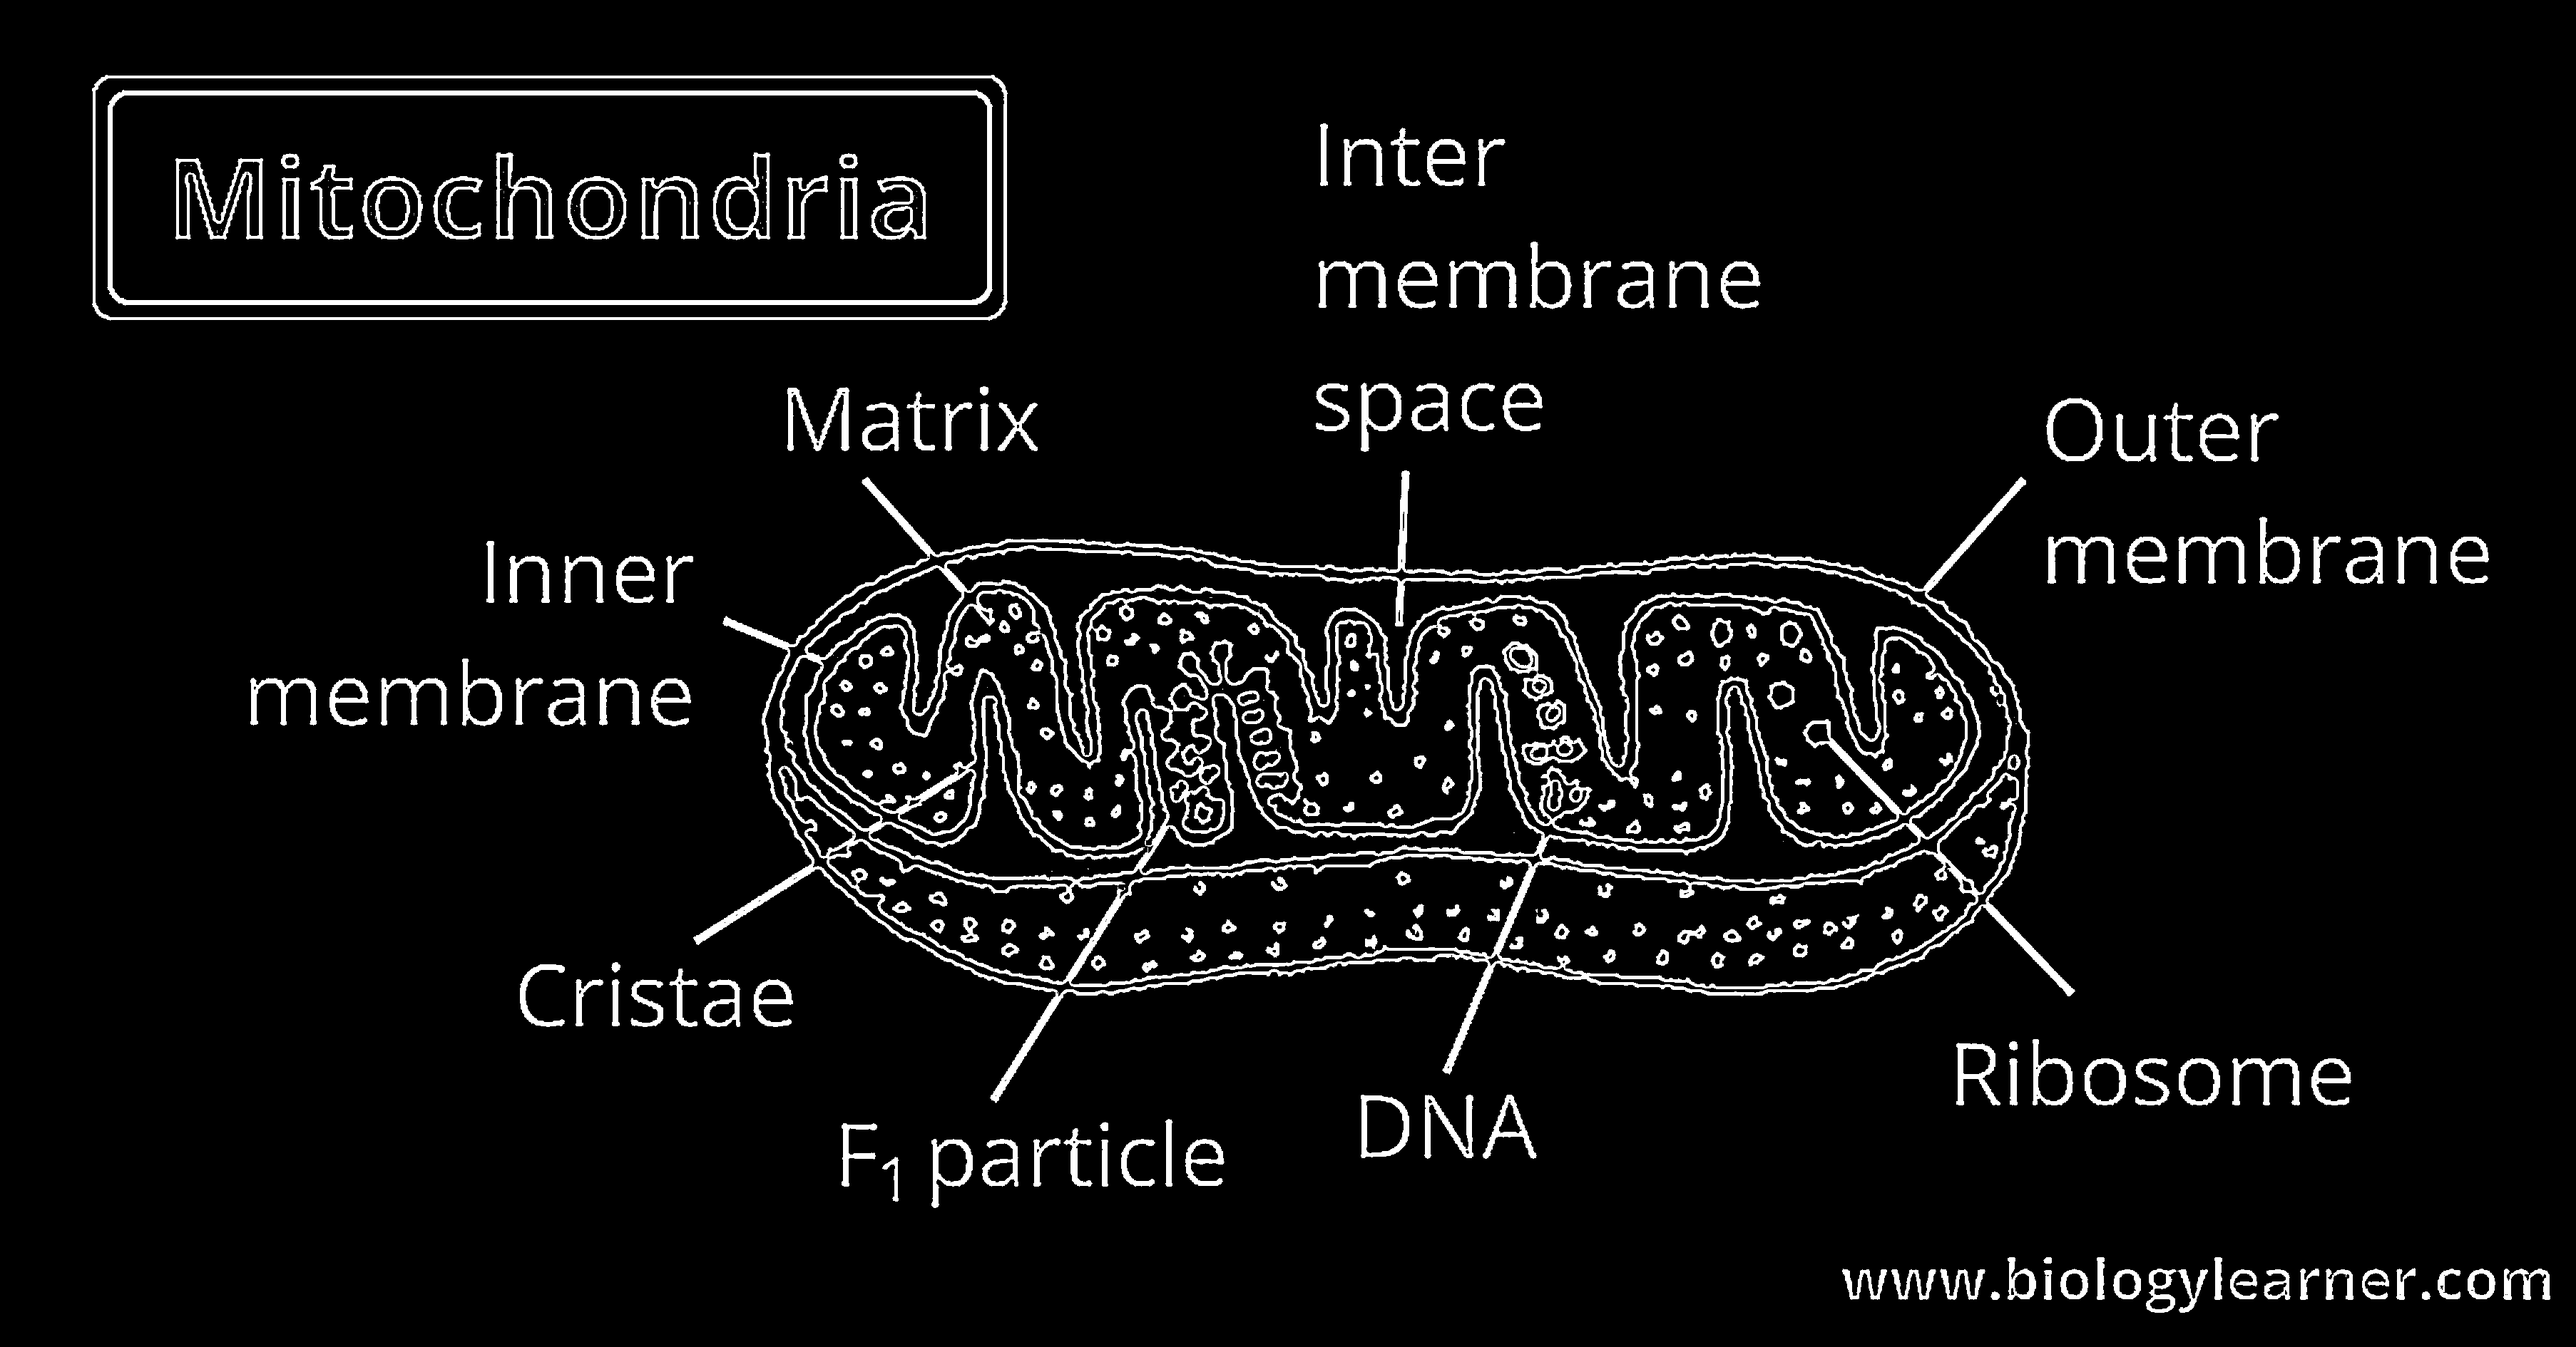
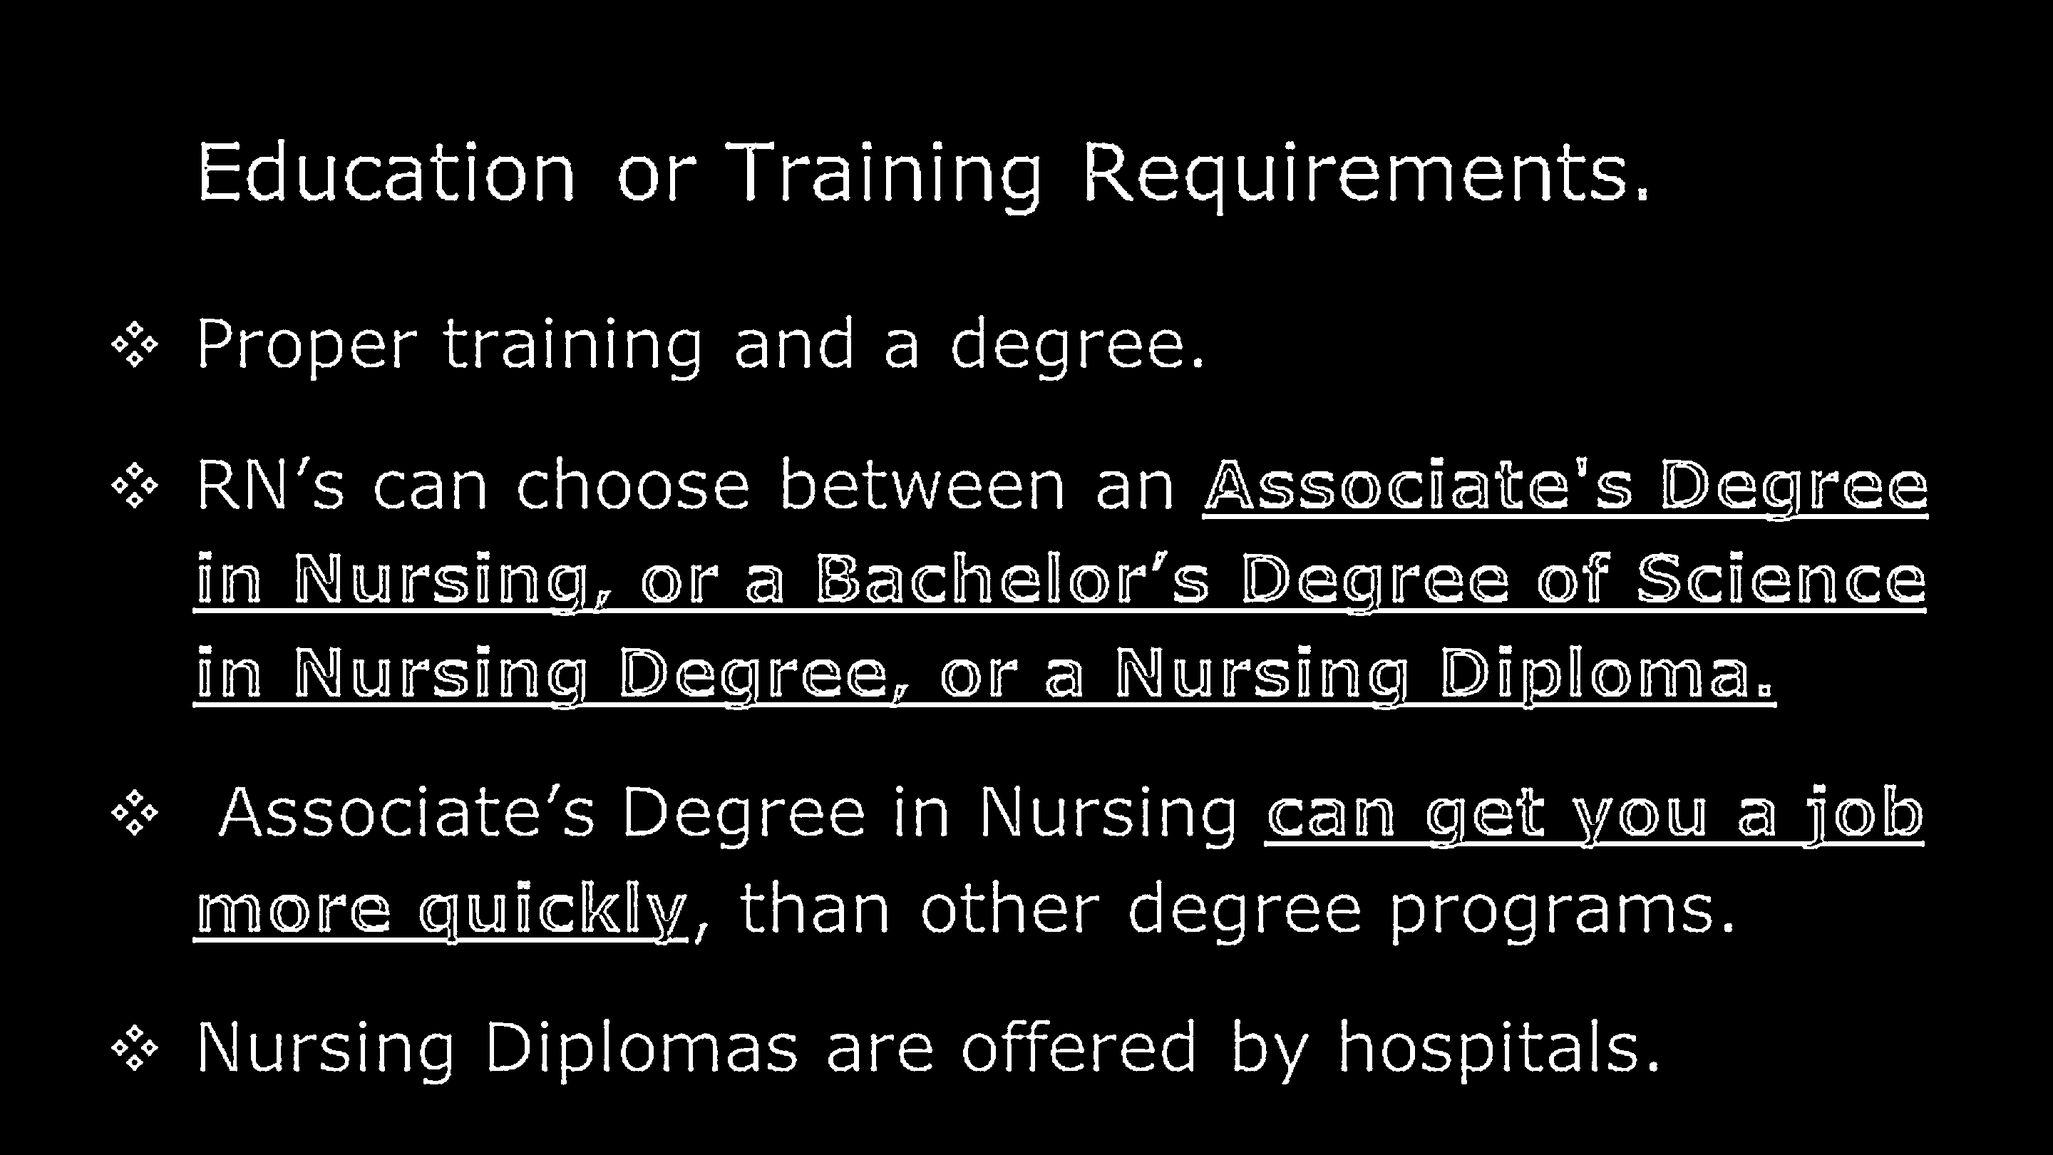
QJVK-63 changes to the song player ui and page to git dynamically

diff --git a/beatServer.js b/beatServer.js
@@ -95,56 +95,56 @@ app.post("/generate", async (req, res) => {
   }
 });
 
-app.post("/generate-vocals", async (req, res) => {
-  const { voice, lyrics } = req.body;
-  if (!voice || !lyrics) return res.status(400).json({ error: "Missing voice or lyrics." });
+// app.post("/generate-vocals", async (req, res) => {
+//   const { voice, lyrics } = req.body;
+//   if (!voice || !lyrics) return res.status(400).json({ error: "Missing voice or lyrics." });
 
-  const speakerMap = {
-    female: "b27c1f98-1ef0-11ef-9faa-00163e045692", // Hannah
-    male: "00151554-3826-11ee-a861-00163e2ac61b"   // Brian
-  };
+//   const speakerMap = {
+//     female: "b27c1f98-1ef0-11ef-9faa-00163e045692", // Hannah
+//     male: "00151554-3826-11ee-a861-00163e2ac61b"   // Brian
+//   };
 
-  const speakerId = speakerMap[voice] || speakerMap["male"];
+//   const speakerId = speakerMap[voice] || speakerMap["male"];
 
-  const payload = {
-    text: lyrics,
-    speaker: speakerId,
-    emotion: "Neutral"
-  };
+//   const payload = {
+//     text: lyrics,
+//     speaker: speakerId,
+//     emotion: "Neutral"
+//   };
 
-  try {
-    console.log("📤 Sending to TopMediai:", payload);
+//   try {
+//     console.log("📤 Sending to TopMediai:", payload);
 
-    const response = await fetch("https://api.topmediai.com/v1/text2speech", {
-      method: "POST",
-      headers: {
-        "Content-Type": "application/json",
-        "x-api-key": process.env.TOPMEDIAI_API_KEY
-      },
-      body: JSON.stringify(payload)
-    });
+//     const response = await fetch("https://api.topmediai.com/v1/text2speech", {
+//       method: "POST",
+//       headers: {
+//         "Content-Type": "application/json",
+//         "x-api-key": process.env.TOPMEDIAI_API_KEY
+//       },
+//       body: JSON.stringify(payload)
+//     });
 
-    const result = await response.json();
-    const audioUrl = result?.data?.oss_url;
+//     const result = await response.json();
+//     const audioUrl = result?.data?.oss_url;
 
-    if (!response.ok || !audioUrl) {
-      return res.status(response.status).json({
-        error: result?.message || "Topmediai API error",
-        details: result
-      });
-    }
+//     if (!response.ok || !audioUrl) {
+//       return res.status(response.status).json({
+//         error: result?.message || "Topmediai API error",
+//         details: result
+//       });
+//     }
 
-    res.json({ audioUrl });
+//     res.json({ audioUrl });
 
-  } catch (error) {
-    console.error("❌ Vocal generation error:", error);
-    res.status(500).json({ error: "Vocal generation failed (server error)." });
-  }
-});
+//   } catch (error) {
+//     console.error("❌ Vocal generation error:", error);
+//     res.status(500).json({ error: "Vocal generation failed (server error)." });
+//   }
+// });
 
 //song generation route
 app.post("/generate-full-song", async (req, res) => {
-  const { lyrics, voice, genre } = req.body;
+  const { lyrics, genre } = req.body;
 
   if (!lyrics || !genre) {
     return res.status(400).json({ error: "Missing lyrics or genre." });
@@ -153,7 +153,7 @@ app.post("/generate-full-song", async (req, res) => {
   console.log("🎶 /generate-full-song hit");
   console.log("🎤 Using these GPT-3.5 lyrics:", lyrics);
   console.log("🎼 Genre:", genre);
-  console.log("🧑🎤 Voice:", voice);
+  //console.log("🧑🎤 Voice:", voice);
 
   const genrePrompts = {
     pop: "Catchy pop style",
@@ -183,6 +183,7 @@ app.post("/generate-full-song", async (req, res) => {
     continue_song_id: ""
   });
   
+
 
   const submission = await fetch("https://api.topmediai.com/v2/submit", {
     method: "POST",
@@ -216,6 +217,7 @@ app.post("/generate-full-song", async (req, res) => {
 
   console.log("🎵 Submitted! Song ID:", songId);
 
+
   const maxTries = 10;
   let tries = 0;
   let finalResult;
@@ -229,6 +231,7 @@ app.post("/generate-full-song", async (req, res) => {
 
     const result = await query.json();
     const status = result?.data?.status || result?.status;
+
 
     console.log(`🔁 Polling... (${tries + 1}/${maxTries}) Status:`, status);
 

diff --git a/js/createBeat.js b/js/createBeat.js
@@ -97,44 +97,49 @@ document.getElementById("generateBtn")?.addEventListener("click", async () => {
   }
 });
 
-document.getElementById("generateVocalBtn")?.addEventListener("click", async () => {
-  const voice = document.getElementById("voiceSelect").value;
-  const lyrics = document.getElementById("lyricsOutput").textContent.trim();
 
-  if (!lyrics) {
-    alert("Generate lyrics before creating vocals.");
-    return;
-  }
+// document.getElementById("generateVocalBtn")?.addEventListener("click", async () => {
+//   const voice = document.getElementById("voiceSelect").value;
+//   const lyrics = document.getElementById("lyricsOutput").textContent.trim();
 
-  document.getElementById("loadingOverlay").style.display = "flex";
+//   if (!lyrics) {
+//     alert("Generate lyrics before creating vocals.");
+//     return;
+//   }
 
-  try {
-    const response = await fetch("/generate-vocals", {
-      method: "POST",
-      headers: { "Content-Type": "application/json" },
-      body: JSON.stringify({ voice, lyrics })
-    });
+//   document.getElementById("loadingOverlay").style.display = "flex";
 
-    const data = await response.json();
-    if (data.audioUrl) {
-      const audio = new Audio(data.audioUrl);
-      audio.play();
-    } else {
-      alert("Vocal generation failed.");
-    }
+//   try {
+//     const response = await fetch("/generate-vocals", {
+//       method: "POST",
+//       headers: { "Content-Type": "application/json" },
+//       body: JSON.stringify({ voice, lyrics })
+//     });
 
-    markComplete("🧑🎤 Pick Vocals");
-  } catch (err) {
-    console.error("❌ Vocal generation error:", err);
-    alert("Something went wrong while generating vocals.");
-  } finally {
-    document.getElementById("loadingOverlay").style.display = "none";
-  }
-});
+//     const data = await response.json();
+//     if (data.audioUrl) {
+//       //const audio = new Audio(data.audioUrl);
+//       //audio.play();
+//       console.log("🎧 Vocal audio URL:", data.audioUrl);
+
+//     } else {
+//       alert("Vocal generation failed.");
+//     }
+
+//     markComplete("🧑🎤 Pick Vocals");
+//   } catch (err) {
+//     console.error("❌ Vocal generation error:", err);
+//     alert("Something went wrong while generating vocals.");
+//   } finally {
+//     document.getElementById("loadingOverlay").style.display = "none";
+//   }
+// });
+
+
 
 document.getElementById("generateSongBtn")?.addEventListener("click", async () => {
   const lyrics = document.getElementById("lyricsOutput").textContent.trim();
-  const voice = document.getElementById("voiceSelect").value;
+  //const voice = document.getElementById("voiceSelect").value;
   const genre = document.getElementById("genreSelect").value;
 
   if (!lyrics) {
@@ -148,7 +153,7 @@ document.getElementById("generateSongBtn")?.addEventListener("click", async () =
     const response = await fetch("/generate-full-song", {
       method: "POST",
       headers: { "Content-Type": "application/json" },
-      body: JSON.stringify({ lyrics, voice, genre })
+      body: JSON.stringify({ lyrics, genre })
     });
 
     const data = await response.json();

diff --git a/css/createBeat-style.css b/css/createBeat-style.css
@@ -7,8 +7,11 @@ html, body {
 }
 
 .container {
+
   display: flex;
-  min-height: 100vh; /* allows the page to grow with content */
+  align-items: stretch;
+  min-height: 100vh;
+  
 }
 
 .sidebar {
@@ -16,6 +19,7 @@ html, body {
   background-size: cover;
   background-repeat: no-repeat;
   background-position: center;
+  height: auto;
   padding: 20px;
   width: 300px;
   display: flex;
@@ -171,6 +175,40 @@ html, body {
   height: 100%;
 }
 
+.lyrics-box {
+  background-color: #FFF8DC; /* soft yellow */
+  border: 2px solid #000;
+  border-radius: 10px;
+  padding: 20px;
+  margin-top: 20px;
+  max-width: 800px;
+  width: 80%;
+  text-align: center;
+  font-size: 1.1rem;
+  box-shadow: 3px 3px 10px rgba(0, 0, 0, 0.1);
+}
+
+.lyrics-box h2 {
+  font-size: 1.5rem;
+  margin-bottom: 15px;
+}
+
+#lyricsOutput {
+  white-space: pre-wrap;
+  font-family: 'Darker Grotesque', sans-serif;
+  font-size: 1.5rem;
+}
+
+.audio-wrapper {
+  display: flex;
+  justify-content: center;
+  align-items: center;
+  margin-top: 10px;
+  width: 100%;
+}
+
+
+
 /* Loading Overlay */
 #loadingOverlay {
   position: fixed;
@@ -180,34 +218,47 @@ html, body {
   height: 100vh;
   background: rgba(255, 255, 255, 0.85);
   display: flex;
+  flex-direction: column;
   justify-content: center;
   align-items: center;
   z-index: 9999;
   display: none;
+  text-align: center;
 }
 
 .loading-logo {
   width: 300px;
   height: 100px;
-  animation: spinLogo 1.2s linear infinite;
+  margin-bottom: 10px;
 }
 
-@keyframes spinLogo {
-  0% { transform: rotate(0deg); }
-  100% { transform: rotate(360deg); }
-}
-
-.lyrics-box {
-  background-color: #fff7cc;
-  border: 2px solid #000;
-  border-radius: 10px;
-  padding: 20px;
-  margin-top: 20px;
-  width: 80%;
-  max-width: 800px;
-  font-size: 1.2rem;
+.loading-text {
+  font-size: 1.5rem;
+  font-weight: bold;
+  color: #333;
   font-family: 'Darker Grotesque', sans-serif;
-  text-align: left;
-  white-space: pre-wrap;
-  box-shadow: 2px 2px 6px rgba(0, 0, 0, 0.1);
+}
+
+.dots::after {
+  content: "...";
+  animation: blinkDots 1s steps(4, end) infinite;
+  overflow: hidden;
+  display: inline-block;
+  width: 0;
+}
+
+@keyframes blinkDots {
+  0%   { width: 0ch; }
+  25%  { width: 1ch; }
+  50%  { width: 2ch; }
+  75%  { width: 3ch; }
+  100% { width: 0ch; }
+}
+
+.main-content {
+  padding-bottom: 150px;
+}
+
+html {
+  scroll-behavior: smooth; /* Makes scrolling transitions smooth */
 }

diff --git a/html/createBeat.html b/html/createBeat.html
@@ -60,7 +60,7 @@
           </select>
         </details>
 
-        <details class="dropdown" id="vocalDropdown">
+        <!--details class="dropdown" id="vocalDropdown">
           <summary>🧑🎤 Pick Vocals</summary>
           <label for="voiceSelect">Choose Vocal Type:</label>
           <select id="voiceSelect" name="voiceSelect">
@@ -68,21 +68,26 @@
             <option value="female">Female Voice</option>
           </select>
           <button id="generateVocalBtn">Generate Vocals</button>
-        </details>      
+        </details-->      
 
         <details class="dropdown">
-          <summary>💾 Save Music</summary>
+          <summary>💾 Save Beat</summary>
           <button id="generateSongBtn">Generate Full Song</button>
-          <audio id="finalPlayer" controls style="display: none; margin-top: 10px;"></audio>
+          <div class="audio-wrapper">
+            <audio id="finalPlayer" controls style="display: none;"></audio>
+          </div>
           <a id="downloadLink" href="#" download="brainbeat.mp3" style="display: none; margin-top: 10px;">⬇ Download Song</a>
         </details>
         
       </div>
     </main>
 
+    <!-- 🔄 Loading Overlay -->
     <div id="loadingOverlay">
-      <img src="https://i.imgur.com/tD9e0ce.png" alt="Loading..." class="loading-logo" />
+      <img src="https://i.imgur.com/tD9e0ce.png" alt="BrainBeats Logo" class="loading-logo" />
+      <div class="loading-text">Loading<span class="dots"></span></div>
     </div>
+
 
     <script src="https://cdn.quilljs.com/1.3.6/quill.min.js"></script>
     <script src="../js/createBeat.js"></script>
